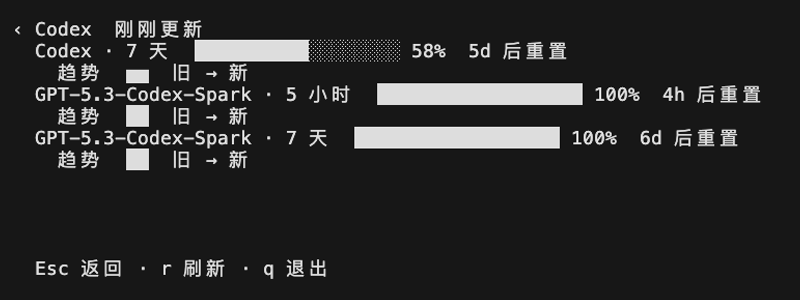
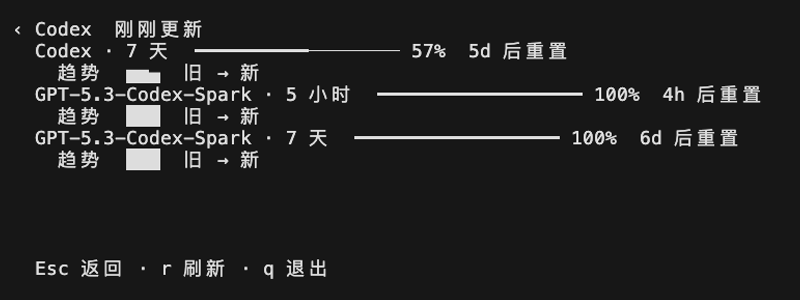
fix: keep quota progress bars visually light

diff --git a/src/ui.rs b/src/ui.rs
@@ -15,8 +15,8 @@ use crate::{
     theme::{palette, provider_accent, Palette},
 };
 
-const FILLED_BAR_GLYPH: &str = "█";
-const EMPTY_BAR_GLYPH: &str = "░";
+const FILLED_BAR_GLYPH: &str = "━";
+const EMPTY_BAR_GLYPH: &str = "─";
 const TREND_GLYPHS: [char; 8] = ['▁', '▂', '▃', '▄', '▅', '▆', '▇', '█'];
 const SPARK_SHORT_ACCENT: Color = Color::Rgb(42, 183, 184);
 const SPARK_LONG_ACCENT: Color = Color::Rgb(64, 145, 214);
@@ -729,7 +729,7 @@ mod tests {
                 row.contains(FILLED_BAR_GLYPH) && row.contains(EMPTY_BAR_GLYPH),
                 "{row:?}"
             );
-            assert!(row.contains('█') && row.contains('░'), "{row:?}");
+            assert!(row.contains('━') && row.contains('─'), "{row:?}");
         }
         assert!(text(&backend, 3).contains("Claude"));
         let footer = text(&backend, 4);

diff --git a/README.md b/README.md
@@ -7,9 +7,9 @@ A compact, privacy-safe terminal dashboard for AI coding subscription limits.
 ![LimitDeck demo](assets/limitdeck.gif)
 
 ```text
-› Codex    Codex    7d  ██████████████░░░░░░░░░░  61%
-           Spark    5h  ████████████████████████ 100%
-           Spark    7d  ████████████████████████ 100%
+› Codex    Codex    7d  ━━━━━━━━━━━━━━──────────  61%
+           Spark    5h  ━━━━━━━━━━━━━━━━━━━━━━━━ 100%
+           Spark    7d  ━━━━━━━━━━━━━━━━━━━━━━━━ 100%
 ```
 
 LimitDeck reuses official local login surfaces when they exist. It does not copy credentials, read browser cookies, scrape subscription pages, or read Codex `auth.json`.

diff --git a/README.zh-CN.md b/README.zh-CN.md
@@ -7,9 +7,9 @@
 ![LimitDeck 演示](assets/limitdeck.gif)
 
 ```text
-› Codex    Codex    7d  ██████████████░░░░░░░░░░  61%
-           Spark    5h  ████████████████████████ 100%
-           Spark    7d  ████████████████████████ 100%
+› Codex    Codex    7d  ━━━━━━━━━━━━━━──────────  61%
+           Spark    5h  ━━━━━━━━━━━━━━━━━━━━━━━━ 100%
+           Spark    7d  ━━━━━━━━━━━━━━━━━━━━━━━━ 100%
 ```
 
 LimitDeck 优先复用 Provider 的官方本地登录入口。它不会复制凭证、读取浏览器 Cookie、抓取订阅网页，也不会直接读取 Codex 的 `auth.json`。
